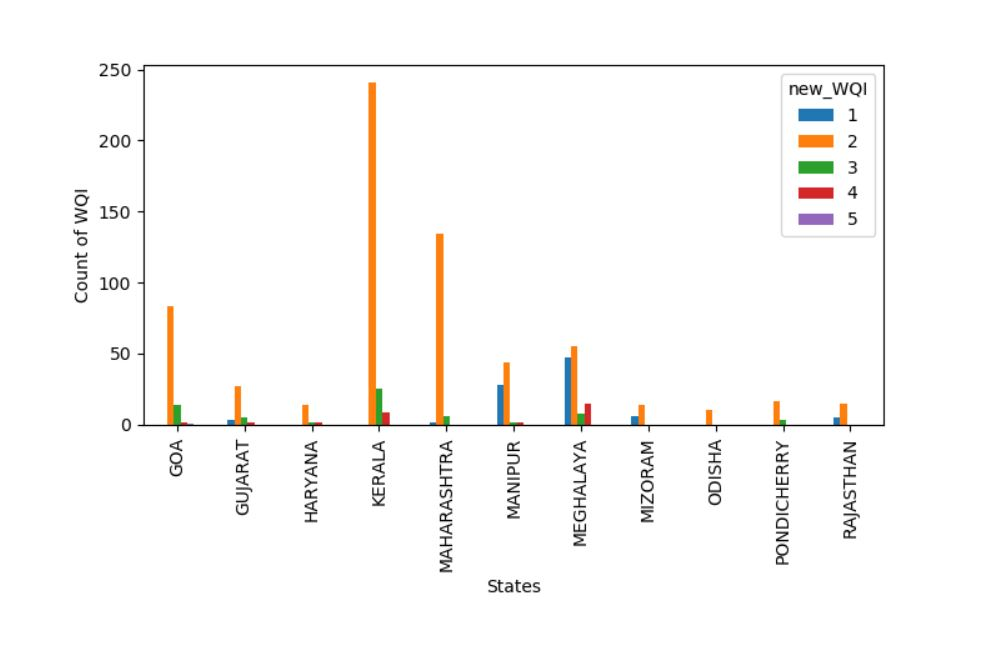
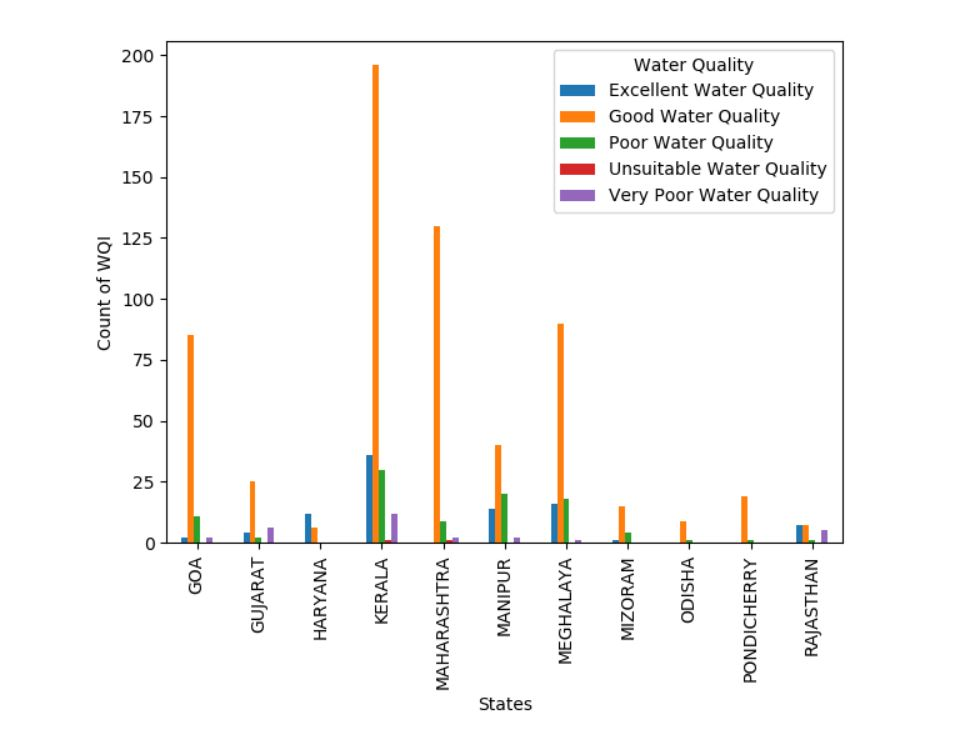
Proper State Bar graphs

Changed region(s): [[0.0621, 0.0619, 0.9006, 0.9598]]

diff --git a/data_visualisation.py b/data_visualisation.py
@@ -12,10 +12,10 @@ df = pd.read_csv('datasets/cleaned_data_final.csv')
 
 
 
-df.to_csv('state.csv')
+df.to_csv('datasets/state.csv')
 
 
-df2 = pd.read_csv('state.csv')
+df2 = pd.read_csv('datasets/state.csv')
 
 
 
@@ -23,13 +23,13 @@ df2 = pd.read_csv('state.csv')
 def inital_plot(df, variable):
 	
 	data_0 = df[df['STATE'] == variable]
-	data_0.to_csv('state_Try.csv', mode = 'a', header = True)
+	data_0.to_csv('datasets/state_filtered.csv', mode = 'a', header = True)
 
 
 def following_plots(df, variable):
 	
 	data_0 = df[df['STATE'] == variable]
-	data_0.to_csv('state_Try.csv', mode = 'a', header = False)
+	data_0.to_csv('datasets/state_filtered.csv', mode = 'a', header = False)
 
 
 
@@ -38,7 +38,7 @@ def following_plots(df, variable):
 
 def count(var1):
 
-	df3 = pd.read_csv('state_Try.csv')
+	df3 = pd.read_csv('datasets/state_filtered.csv')
 	list_Try = []
 	for i in df3['STATE']:
 		list_Try.append(i)
@@ -61,13 +61,26 @@ for i in list1:
 
 
 
-df3 = pd.read_csv('state_Try.csv')
+df3 = pd.read_csv('datasets/state_filtered.csv')
+
+
+
+df3['Water Quality']=df['new_WQI'].apply(lambda x:("Excellent Water Quality" if (x==1)  
+										else("Good Water Quality" if  (x==2)
+										else("Poor Water Quality" if  (x==3)
+										else("Very Poor Water Quality" if  (x==4) 
+										else "Unsuitable Water Quality")))))
+
+
+
+
+
 
 
 
 
 df3.groupby(
-  ['STATE','new_WQI']
+  ['STATE','Water Quality']
 ).size().unstack().plot(kind='bar',stacked=False,legend=True)
 
 plt.xlabel('States')
